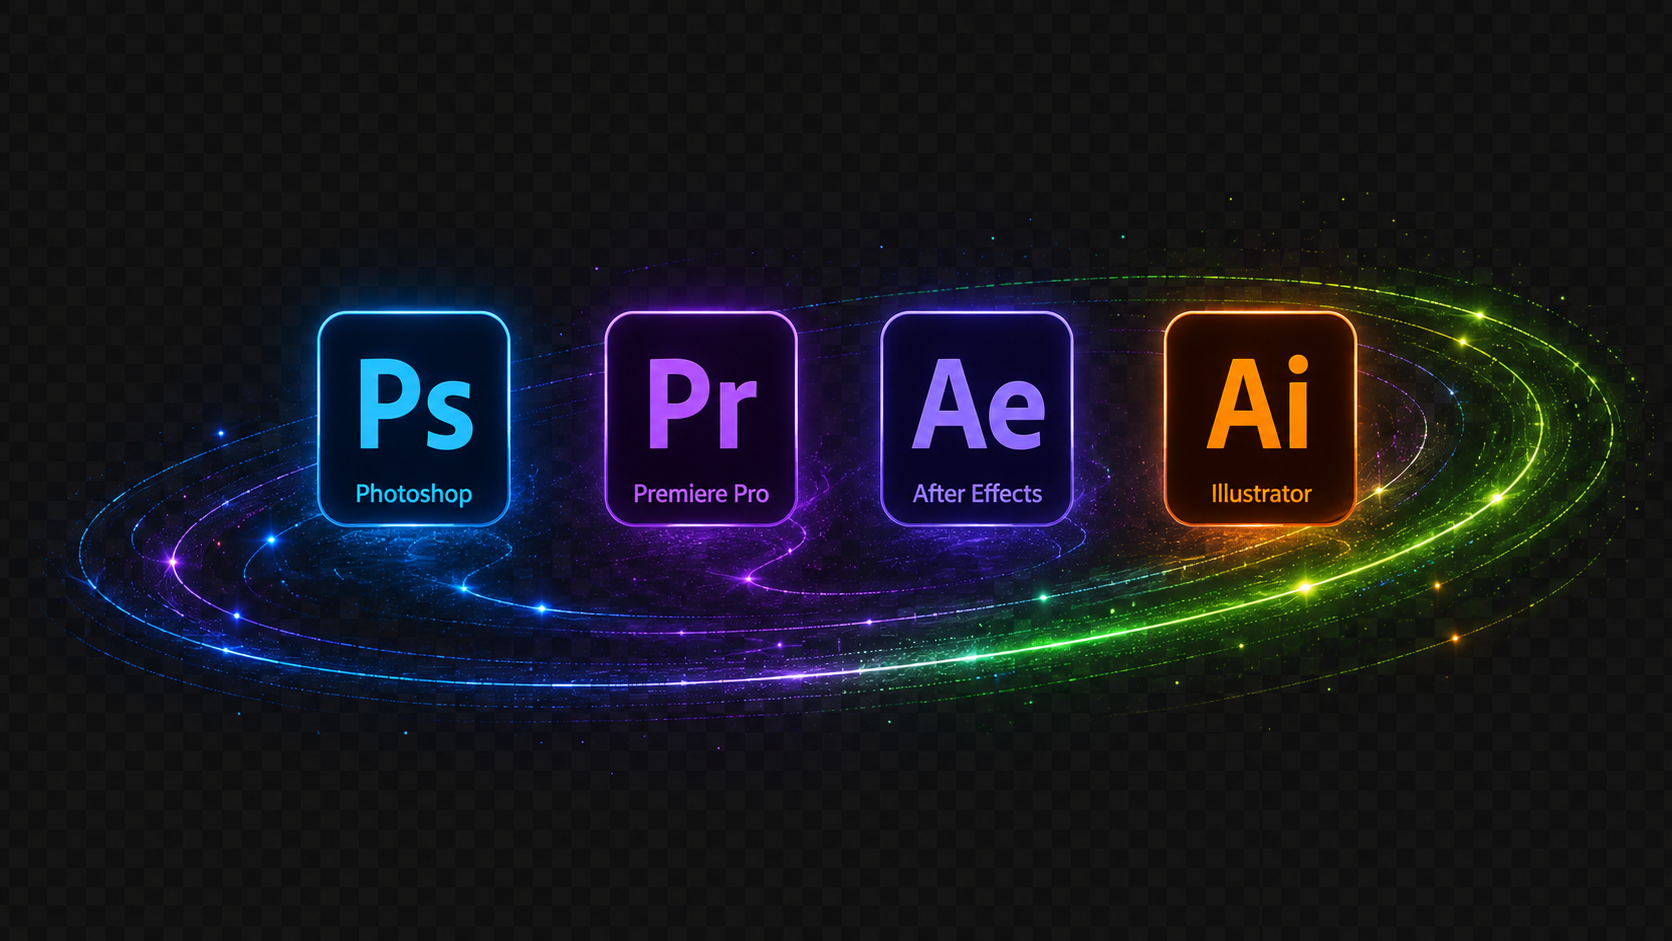
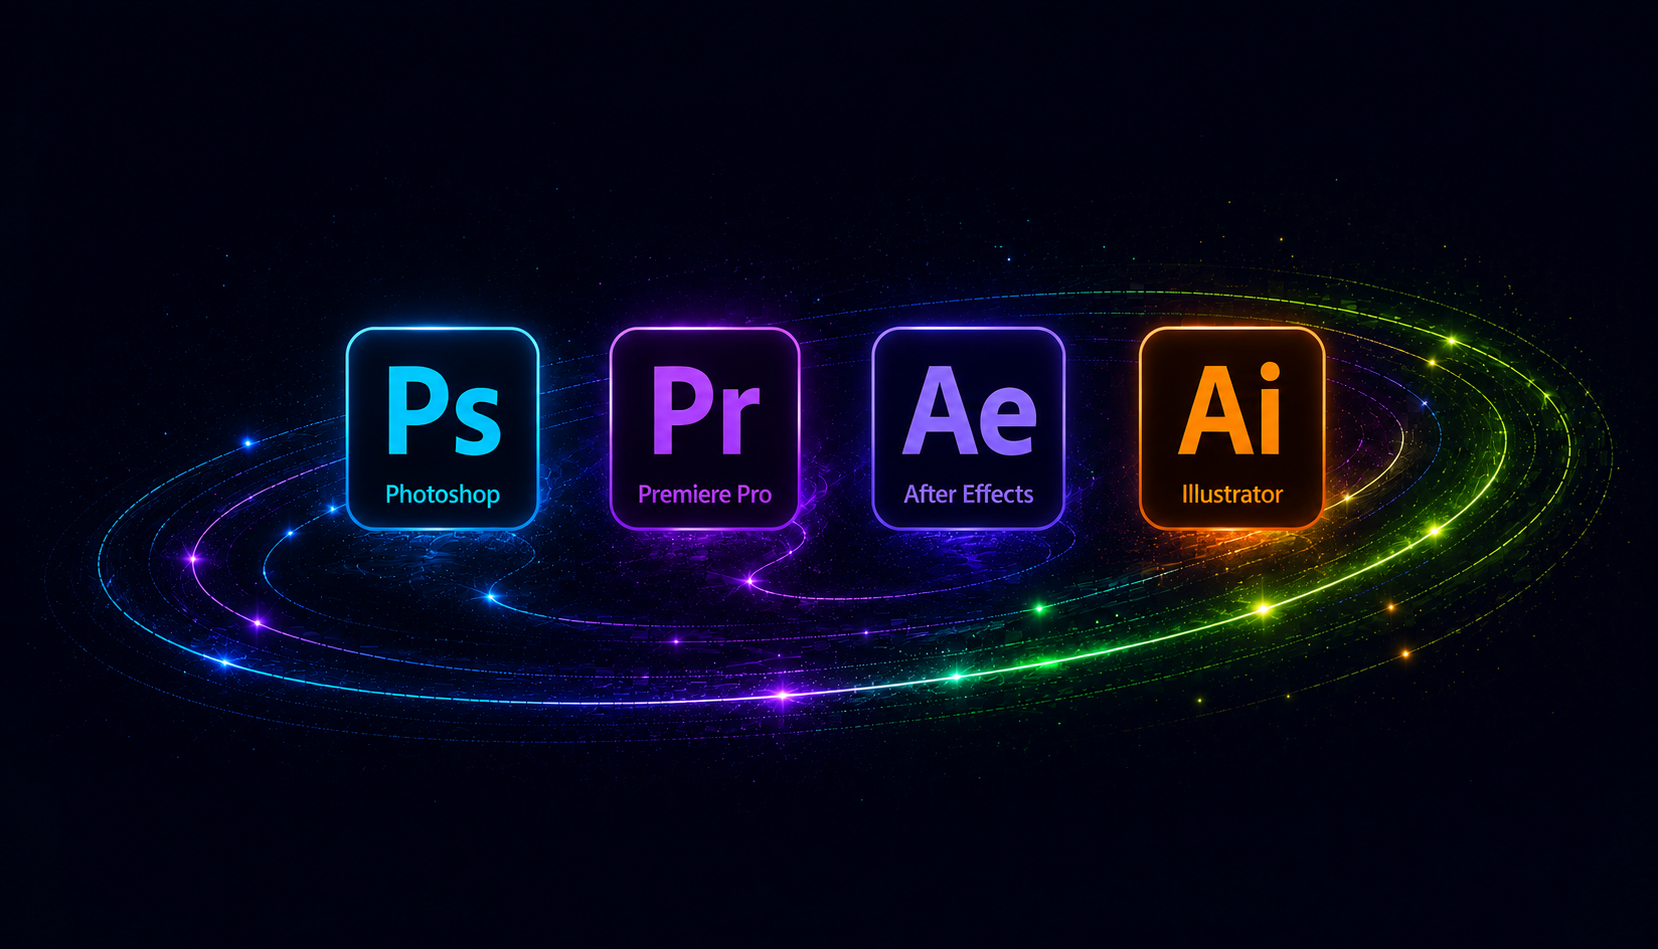
about 여정 중복 문구 정리 및 광고콘텐츠 이미지 교체 (#22)
## 정리
- About Hero의 About Me 라벨 제거
- Journey Storyboard 라벨 복원
- 새 광고콘텐츠제작.png 반영
- 새 이미지 실제 크기에 맞춰 Next Image metadata 수정

## 확인
- npm run validate

Changed region(s): [[0.0308, 0.2465, 0.9843, 0.7705], [0.769, 0.7088, 0.7998, 0.7396]]

diff --git a/src/components/JourneyTimeline.tsx b/src/components/JourneyTimeline.tsx
@@ -58,8 +58,8 @@ const journeyItems: JourneyItem[] = [
     kind: "creative",
     visualSrc: "/images/광고콘텐츠제작.png",
     visualAlt: "광고콘텐츠 제작 도구와 그래픽 비주얼",
-    visualWidth: 1672,
-    visualHeight: 941,
+    visualWidth: 1658,
+    visualHeight: 949,
   },
   {
     period: "2022.11 ~ 2023.02",
@@ -253,6 +253,10 @@ export default function JourneyTimeline() {
       className="journey-board"
       aria-label="경험이 쌓여 지금의 저를 만든 여정"
     >
+      <p className="section-eyebrow journey-board__eyebrow">
+        Journey Storyboard
+      </p>
+
       <div className="journey-board__canvas">
         <svg
           className="journey-board__path"

diff --git a/src/app/about/page.tsx b/src/app/about/page.tsx
@@ -53,7 +53,6 @@ export default function AboutPage() {
     <main className="content-shell about-page">
       <section className="page-hero about-hero page-section--reveal">
         <div className="about-hero__copy">
-          <p className="section-eyebrow">About Me</p>
           <h1>
             경험이 흐르고,
             <br />

diff --git a/src/styles/about.css b/src/styles/about.css
@@ -67,8 +67,12 @@
 .journey-board {
   position: relative;
   display: grid;
-  gap: clamp(22px, 4vw, 42px);
+  gap: clamp(16px, 3vw, 28px);
   isolation: isolate;
+}
+
+.journey-board__eyebrow {
+  margin: 0;
 }
 
 .journey-board__intro {
